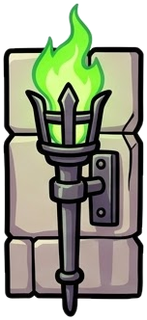
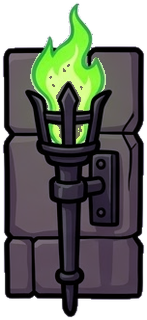
Animated torch flames and phylactery crystal
Claude-Session: https://claude.ai/code/session_01VhYJCMD3xx8A4qbiZVcxoh

diff --git a/js/game.js b/js/game.js
@@ -2309,7 +2309,14 @@ Scenes.crypt = {
     [[60, 0], [300, 0], [200, 1], [60, 2], [250, 2]].forEach(([x, r], i) => {
       const y = ROOM_TOP[r] + 44, f = Math.sin(time * 10 + i * 2) * 1.5;
       Art.glowAt(x, y - 8, 52 + f * 3, 'rgba(125,255,74,0.22)');
-      if (Art.deco('deco_torch', x, y - 4, 52)) return;
+      if (animDeco('deco_torch', x, y - 4, 52, 0.34, i, (tt, lit) => {
+        ctx.transform(1, 0, Math.sin(tt * 7) * 0.08, 1, 0, 0);
+        ctx.scale(1 + Math.sin(tt * 13) * 0.05, 1 + Math.sin(tt * 9) * 0.1 + Math.sin(tt * 23) * 0.04);
+        lit(0.15 + 0.2 * Math.abs(Math.sin(tt * 11)));
+      })) {
+        if (Math.random() < 0.04 && FX.parts.length < 200) FX.parts.push({ x: x + rnd(-3, 3), y: y - 26, vx: rnd(-8, 8), vy: -30, life: 0.7, t: 0, col: C.toxic, r: 1.6, g: -10 });
+        return;
+      }
       ctx.fillStyle = '#5a4030'; ctx.strokeStyle = C.ink; ctx.lineWidth = 2;
       ctx.beginPath(); ctx.moveTo(x - 6, y - 4); ctx.lineTo(x + 6, y - 4); ctx.lineTo(x + 3, y + 16); ctx.lineTo(x - 3, y + 16); ctx.closePath(); ctx.fill(); ctx.stroke();
       ctx.fillStyle = '#3a3440'; ctx.fillRect(x - 8, y - 6, 16, 4); ctx.strokeRect(x - 8, y - 6, 16, 4);
@@ -2389,7 +2396,10 @@ Scenes.crypt = {
   drawPhylactery() {
     const x = 326, y = FLOOR[2] - 30, hp = this.run ? this.run.hp : D.cryptHp;
     Art.glowAt(x, y, 34 + Math.sin(time * 3) * 4, hp > 3 ? 'rgba(125,255,74,0.4)' : 'rgba(255,90,50,0.5)');
-    if (Art.deco('deco_crystal', x, y + 2, 66)) return;
+    if (animDeco('deco_crystal', x, y + 2, 66, 0.69, 0, (tt, lit) => {
+      ctx.translate(0, Math.sin(tt * 2) * 2.5 - 2);
+      lit(hp > 3 ? 0.1 + 0.25 * (0.5 + 0.5 * Math.sin(tt * 3)) : 0.3 + 0.3 * Math.abs(Math.sin(tt * 8)), hp > 3 ? null : 'rgba(255,70,40,0.9)');
+    })) return;
     ctx.fillStyle = C.stoneD; ctx.fillRect(x - 14, y + 18, 28, 14); ctx.strokeStyle = C.ink; ctx.lineWidth = 2; ctx.strokeRect(x - 14, y + 18, 28, 14);
     ctx.beginPath(); ctx.moveTo(x, y - 24); ctx.lineTo(x + 13, y); ctx.lineTo(x, y + 18); ctx.lineTo(x - 13, y); ctx.closePath();
     ctx.fillStyle = hp > 3 ? C.toxic : '#ff6a3a'; ctx.fill(); ctx.lineWidth = 3; ctx.strokeStyle = C.ink; ctx.stroke();
@@ -2507,6 +2517,28 @@ Scenes.crypt = {
 };
 
 // ============================== Scène : Menu ==============================
+// décor en image dont le haut (flamme, cristal) est animé : anim(t, lit) déforme le haut, lit(a, teinte) l'illumine
+const animTint = document.createElement('canvas');
+function animDeco(k, x, y, size, split, seed, anim) {
+  const im = Art.img(k); if (!im) return false;
+  const iw = im.naturalWidth, ih = im.naturalHeight, s = size / Math.max(iw, ih), w = iw * s, h = ih * s, y0 = y - h / 2, sh = ih * split, hh = sh * s;
+  ctx.drawImage(im, 0, sh - 1, iw, ih - sh + 1, x - w / 2, y0 + hh - s, w, h - hh + s);
+  ctx.save(); ctx.translate(x, y0 + hh);
+  let glow = 0, tint = null;
+  anim(time + seed * 1.7, (a, c) => { glow = a; tint = c; });
+  ctx.drawImage(im, 0, 0, iw, sh, -w / 2, -hh, w, hh);
+  if (glow > 0) {
+    let src = im;
+    if (tint) {
+      animTint.width = iw; animTint.height = Math.ceil(sh); const g = animTint.getContext('2d');
+      g.globalCompositeOperation = 'source-over'; g.clearRect(0, 0, iw, sh); g.drawImage(im, 0, 0);
+      g.globalCompositeOperation = 'source-atop'; g.fillStyle = tint; g.fillRect(0, 0, iw, sh); src = animTint;
+    }
+    ctx.globalCompositeOperation = 'lighter'; ctx.globalAlpha = Math.min(1, glow);
+    ctx.drawImage(src, 0, 0, iw, sh, -w / 2, -hh, w, hh);
+  }
+  ctx.restore(); return true;
+}
 function bgNight(top, bot) {
   const g = ctx.createLinearGradient(0, 0, 0, H); g.addColorStop(0, top || '#1d1030'); g.addColorStop(1, bot || '#0a0510');
   ctx.fillStyle = g; ctx.fillRect(0, 0, W, H);

diff --git a/sw.js b/sw.js
@@ -1,5 +1,5 @@
 /* Service worker : jeu jouable hors ligne. Changer VERSION à chaque mise à jour. */
-const VERSION = 'necro-v12';
+const VERSION = 'necro-v13';
 const FILES = ['./', './index.html', './manifest.webmanifest', './js/lang.js', './js/data.js', './js/assets.js', './js/game.js', './icons/icon-192.png', './icons/icon-512.png'];
 self.addEventListener('install', e => { e.waitUntil(caches.open(VERSION).then(c => c.addAll(FILES)).then(() => self.skipWaiting())); });
 self.addEventListener('activate', e => { e.waitUntil(caches.keys().then(ks => Promise.all(ks.filter(k => k !== VERSION).map(k => caches.delete(k)))).then(() => self.clients.claim())); });
